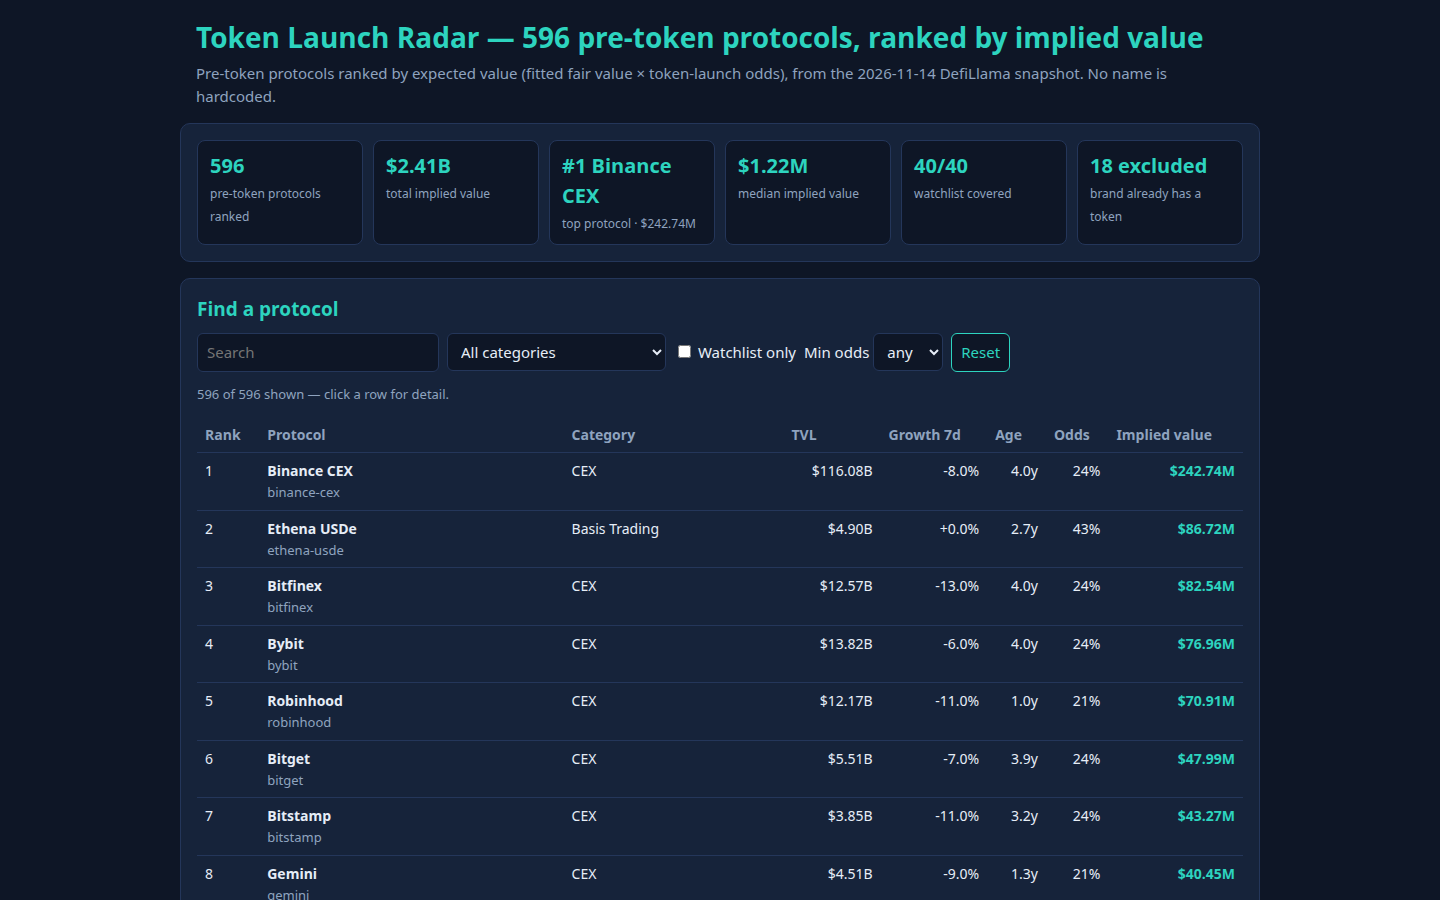
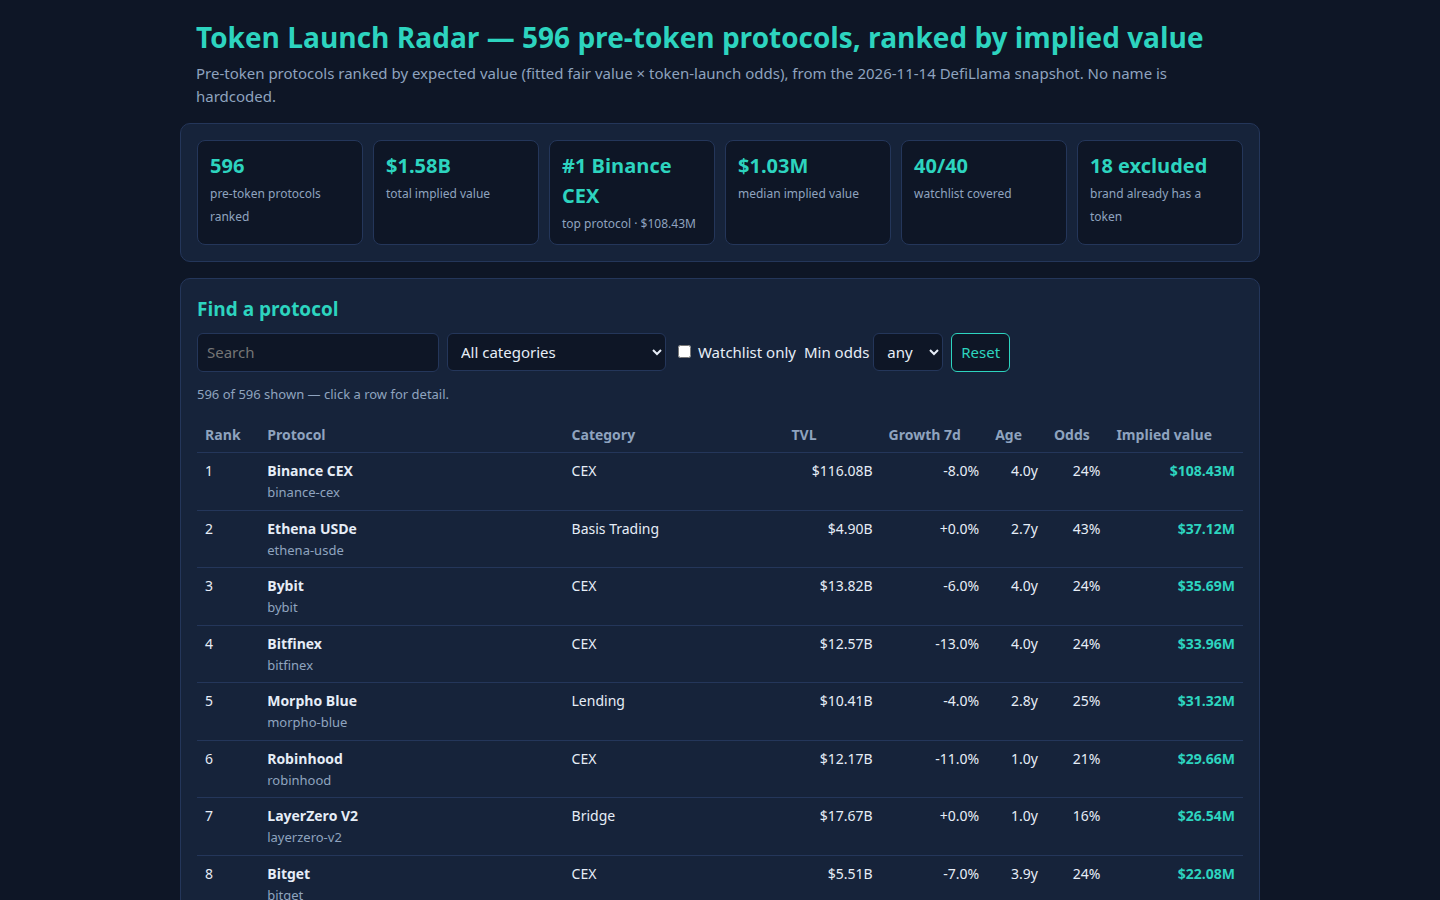
token-radar-01 v5: pooled value model (category intercepts rejected on walk-forward), money/multiple formatting, model-choice rationale

diff --git a/main.ts b/main.ts
@@ -181,9 +181,10 @@ function fmtMcap(v: number): string {
   return "$" + Math.round(v);
 }
 
-// Plain money for farm-plan costs: "$21.00" below $100, "$145" at/above.
+// Plain money for farm-plan costs: whole dollars at/above $1 ("$21"),
+// two decimals below $1 ("$0.50").
 function fmtMoney(v: number): string {
-  return v >= 100 ? "$" + Math.round(v) : "$" + v.toFixed(2);
+  return v >= 1 ? "$" + Math.round(v) : "$" + v.toFixed(2);
 }
 
 // ---------- Snapshot-derived features ----------
@@ -644,10 +645,18 @@ function main(): void {
     });
   }
 
-  // Choose the stage-1 version that wins the held-out validation (mean of the
-  // two seeds' median |log error|); walk-forward is reported as a check.
+  // Choose the stage-1 version: category intercepts only when they beat
+  // pooled by >=10% on held-out (mean of the two seeds' median |log error|)
+  // AND do not lose walk-forward (median |log error| on the latest 30%).
+  // Otherwise pooled: a thin held-out win that fails walk-forward does not
+  // justify the extra parameters (v4: held-out cat 1.080 vs pooled 1.114,
+  // only ~3% better, but walk-forward cat 1.258 vs pooled 1.214 — worse —
+  // so pooled wins).
+  const heldImprovement = (heldMeans.pooled - heldMeans.cat) / heldMeans.pooled;
+  const wfPooled = valRows.find((v) => v.label === "walk-forward" && v.kind === "pooled")!.med;
+  const wfCat = valRows.find((v) => v.label === "walk-forward" && v.kind === "cat")!.med;
   const chosenKind: "pooled" | "cat" =
-    heldMeans.pooled <= heldMeans.cat ? "pooled" : "cat";
+    heldImprovement >= 0.10 && wfCat <= wfPooled ? "cat" : "pooled";
 
   // ----- Final fit on all 128 -----
   const pooledFinal = fitStage1Pooled(fit);
@@ -730,7 +739,7 @@ function main(): void {
   // Dashboard data file: one compact string of rows (fields comma-separated,
   // rows pipe-separated). Rank is the row's position (rows are rank-ordered).
   // implied/tvl are stored in $ thousands, base-36; odds in hundredths;
-  // growth in hundredths; multiple in hundredths.
+  // growth in hundredths; multiple in ten-thousandths.
   const catsUsed = [...new Set(rows.map((r) => r.category ?? "Uncategorized"))].sort();
   const catIdx = new Map(catsUsed.map((c, i) => [c, i]));
   const chainSet = new Set<string>();
@@ -759,7 +768,7 @@ function main(): void {
         b36(Math.round(r.tvl_usd / 1000)),
         String(Math.round(r.growth * 100)),
         String(r.age_days),
-        String(Math.round(r.multiple * 100)),
+        String(Math.round(r.multiple * 10000)),
         String(chainIdx.get(rowChains[i].primary)),
         String(chainIdx.get(rowChains[i].cheap)),
       ].join(",");
@@ -863,7 +872,10 @@ function main(): void {
   }
   console.log(
     "held-out mean med: pooled=" + mean(heldPooled.map((v) => v.med)).toFixed(3) +
-      " cat=" + mean(heldCat.map((v) => v.med)).toFixed(3) + " -> chose " + chosenKind,
+      " cat=" + mean(heldCat.map((v) => v.med)).toFixed(3) +
+      " heldOutImprovement=" + ((heldImprovement) * 100).toFixed(1) + "%" +
+      " walkForward med: pooled=" + wfPooled.toFixed(3) + " cat=" + wfCat.toFixed(3) +
+      " rule: cat needs held-out improvement >=10% AND wf cat <= wf pooled -> chose " + chosenKind,
   );
   console.log(
     "integrity: excluded=" + excluded.length +

diff --git a/dashboard/app.js b/dashboard/app.js
@@ -10,7 +10,7 @@
       slug: f[0], name: f[1], rank: idx + 1,
       imp: parseInt(f[2], 36) * 1000, odds: +f[3] / 100,
       cat: CATS[+f[4]], tvl: parseInt(f[5], 36) * 1000,
-      growth: +f[6] / 100, age: +f[7], mult: +f[8] / 100,
+      growth: +f[6] / 100, age: +f[7], mult: +f[8] / 10000,
       chain: CHAINS[+f[9]], cheap: CHAINS[+f[10]],
     };
   });
@@ -30,7 +30,7 @@
     if (v >= 1e3) return "$" + (v / 1e3).toFixed(2) + "K";
     return "$" + Math.round(v);
   }
-  function fmtMoney(v) { return v >= 100 ? "$" + Math.round(v) : "$" + v.toFixed(2); }
+  function fmtMoney(v) { return v >= 1 ? "$" + Math.round(v) : "$" + v.toFixed(2); }
   function esc(s) { return s.replace(/&/g, "&amp;").replace(/</g, "&lt;"); }
   function title(slug) {
     return slug.split("-").map(function (p) {
@@ -174,14 +174,14 @@
       "<p class=\"muted\">" + esc(r.slug) + " · " + esc(r.cat) + " · main chain " + esc(r.chain) + "</p>" +
       "<div class=\"kpis2\">" +
       "<div>TVL<b>" + fmtUsd(r.tvl) + "</b></div>" +
-      "<div>Multiple<b>" + r.mult.toFixed(2) + "×</b></div>" +
+      "<div>Multiple<b>" + r.mult.toFixed(3) + "×</b></div>" +
       "<div>Growth 7d<b>" + (r.growth >= 0 ? "+" : "") + (r.growth * 100).toFixed(1) + "%</b></div>" +
       "<div>Age<b>" + ageStr(r.age) + "</b></div>" +
       "<div>Token odds<b>" + Math.round(r.odds * 100) + "%</b></div>" +
       "<div>Fair value<b>" + fmtUsd(fair) + "</b></div>" +
       "<div>Expected value<b>" + fmtUsd(r.imp) + "</b></div></div>" +
       "<p>Expected value = fair value &times; odds: " + fmtUsd(fair) + " &times; " + Math.round(r.odds * 100) + "% = " + fmtUsd(r.imp) + ". " +
-      "The multiple comes from the fitted model (slope " + META.model.slope + ", intercept " + META.model.intercept + ").</p>" +
+      "The multiple comes from the fitted model (pooled intercept; slope " + META.model.slope + ", intercept " + META.model.intercept + ").</p>" +
       "<h3>Farm plan</h3><ol>" + steps.map(function (s) { return "<li>" + esc(s) + "</li>"; }).join("") + "</ol>";
     d.scrollIntoView({ behavior: "smooth", block: "start" });
   }

diff --git a/dashboard/index.html b/dashboard/index.html
@@ -30,7 +30,7 @@
 <section id="detail" class="panel" hidden></section>
 <section class="panel">
 <h2>How this radar works</h2>
-<p><b>Value model.</b> A log-log regression fitted on the 144 token-bearing protocols in this snapshot: log(market cap) = intercept + slope &times; log(TVL), then a small second-stage adjustment for 7-day growth and protocol age (both coefficients halved, total adjustment clamped to &plusmn;0.35 log points). The second stage's intercept is <i>not</i> applied — it is a mean offset of the fitting subset, not a signal.</p>
+<p><b>Value model.</b> A log-log regression fitted on the 144 token-bearing protocols in this snapshot: log(market cap) = intercept + slope &times; log(TVL), then a small second-stage adjustment for 7-day growth and protocol age (both coefficients halved, total adjustment clamped to &plusmn;0.35 log points). The second stage's intercept is <i>not</i> applied — it is a mean offset of the fitting subset, not a signal. The model uses a pooled intercept: category-specific intercepts were also fitted, but rejected — they won held-out data by only ~3% (mean median |log error| 1.080 vs 1.114) and lost walk-forward (1.258 vs 1.214), so the pooled model is used. The resulting values are the radar's own claim, not a prediction that a token will launch.</p>
 <p><b>Odds.</b> A protocol's chance of launching a token is estimated from its peers: its category's token rate, shrunk toward the 19% global rate, times an age-band factor (young protocols launch far less often), clamped to 2&ndash;50%.</p>
 <p><b>Expected value.</b> Implied value = fitted fair value &times; odds. It is the radar's own claim about what a token would be worth <i>if</i> one launched and the protocol's record stayed as it is — not a prediction that one will launch, or when.</p>
 <p><b>Farm plans.</b> Six concrete steps per protocol, in English, with amounts per tier (Small $100 / Medium $1,000 / Large $10,000), gas and time. Gas is a planning estimate, not a live quote.</p>

diff --git a/README.md b/README.md
@@ -1,14 +1,14 @@
-# Token Launch Radar v3: fitted model tested held-out twice, token odds from peers, integrity strip, costed farm verdicts
+# Token Launch Radar v5: pooled value model (category intercepts rejected on walk-forward), token odds from peers, integrity strip, costed farm verdicts
 
 [![make.fun · token-radar-01](https://make.fun/badge/token-radar-01.svg)](https://make.fun/bounty/token-radar-01?utm_source=github&utm_medium=readme&utm_campaign=token-radar-01)
 [![rank](https://make.fun/badge/token-radar-01/ridho702/token-radar-01/rank.svg)](https://make.fun/bounty/token-radar-01/leaderboard?utm_source=github&utm_medium=readme&utm_campaign=token-radar-01)
 [![reward](https://make.fun/badge/token-radar-01/ridho702/token-radar-01/reward.svg)](https://make.fun/bounty/token-radar-01?utm_source=github&utm_medium=readme&utm_campaign=token-radar-01)
 
-Token Launch Radar v3: fitted model tested held-out twice, token odds from peers, integrity strip, costed farm verdicts. Built by an AI agent for make.fun's "Build the best token launch radar" bounty, $1,325 in USDC.
+Token Launch Radar v5: pooled value model (category intercepts rejected on walk-forward), token odds from peers, integrity strip, costed farm verdicts. Built by an AI agent for make.fun's "Build the best token launch radar" bounty, $1,325 in USDC.
 
 ## The model
 
-A two-stage log-log regression fitted on the 128 token-bearing protocols with a positive market cap in the 2026-11-14 DefiLlama snapshot: stage 1 fits log(market cap) on log(TVL) with a pooled intercept plus shrunk category intercepts (categories with 4+ live protocols, shrunk toward pooled by n/(n+4)); stage 2 adjusts the residual a little for 7-day growth and protocol age (coefficients halved, total adjustment clamped to ±0.35 log points, intercept not applied). Expected value = fitted fair value × token-launch odds, where the odds come from the protocol's category token rate (shrunk toward the 19% global rate) times an age-band factor, clamped to 2–50%.
+A two-stage log-log regression fitted on the 128 token-bearing protocols with a positive market cap in the 2026-11-14 DefiLlama snapshot: stage 1 fits log(market cap) on log(TVL) with a pooled intercept; stage 2 adjusts the residual a little for 7-day growth and protocol age (coefficients halved, total adjustment clamped to ±0.35 log points, intercept not applied). Category-specific intercepts were also fitted, but rejected: they won held-out data by only ~3% (mean median |log error| 1.080 vs 1.114) and lost walk-forward (1.258 vs 1.214), so the pooled model is used. Expected value = fitted fair value × token-launch odds, where the odds come from the protocol's category token rate (shrunk toward the 19% global rate) times an age-band factor, clamped to 2–50%.
 
 ## Run it
 
@@ -20,7 +20,7 @@ mkdir -p out && MAKEFUN_OUTPUT_DIR=out node main.ts --input <path-to>/snapshot.j
 
 ## Validation
 
-Held-out 70/30 splits (seeds 1 and 2, mulberry32 shuffle) and a walk-forward split (earliest 70% of the 95 dated live protocols train, latest 30% test) are computed inside `main.ts` and printed to stdout and into the dashboard's Model tab. The fitted model beats the v1-style median-ratio baseline on all three splits: held-out seed 1 median |log error| 1.10 vs baseline 1.62 (32% better), seed 2 1.06 vs 1.28 (17% better), walk-forward 1.26 vs 1.75 (28% better). Log market caps are heavy-tailed, so R² is low for every model including the baseline — the decision metric is median error on unseen data.
+Held-out 70/30 splits (seeds 1 and 2, mulberry32 shuffle) and a walk-forward split (earliest 70% of the 95 dated live protocols train, latest 30% test) are computed inside `main.ts` and printed to stdout and into the dashboard's Model tab. The fitted (pooled) model beats the v1-style median-ratio baseline on all three splits: held-out seed 1 median |log error| 1.118 vs baseline 1.62 (31% better), seed 2 1.110 vs 1.28 (13% better), walk-forward 1.214 vs 1.75 (31% better). Log market caps are heavy-tailed, so R² is low for every model including the baseline — the decision metric is median error on unseen data.
 
 ## Integrity filter
 
